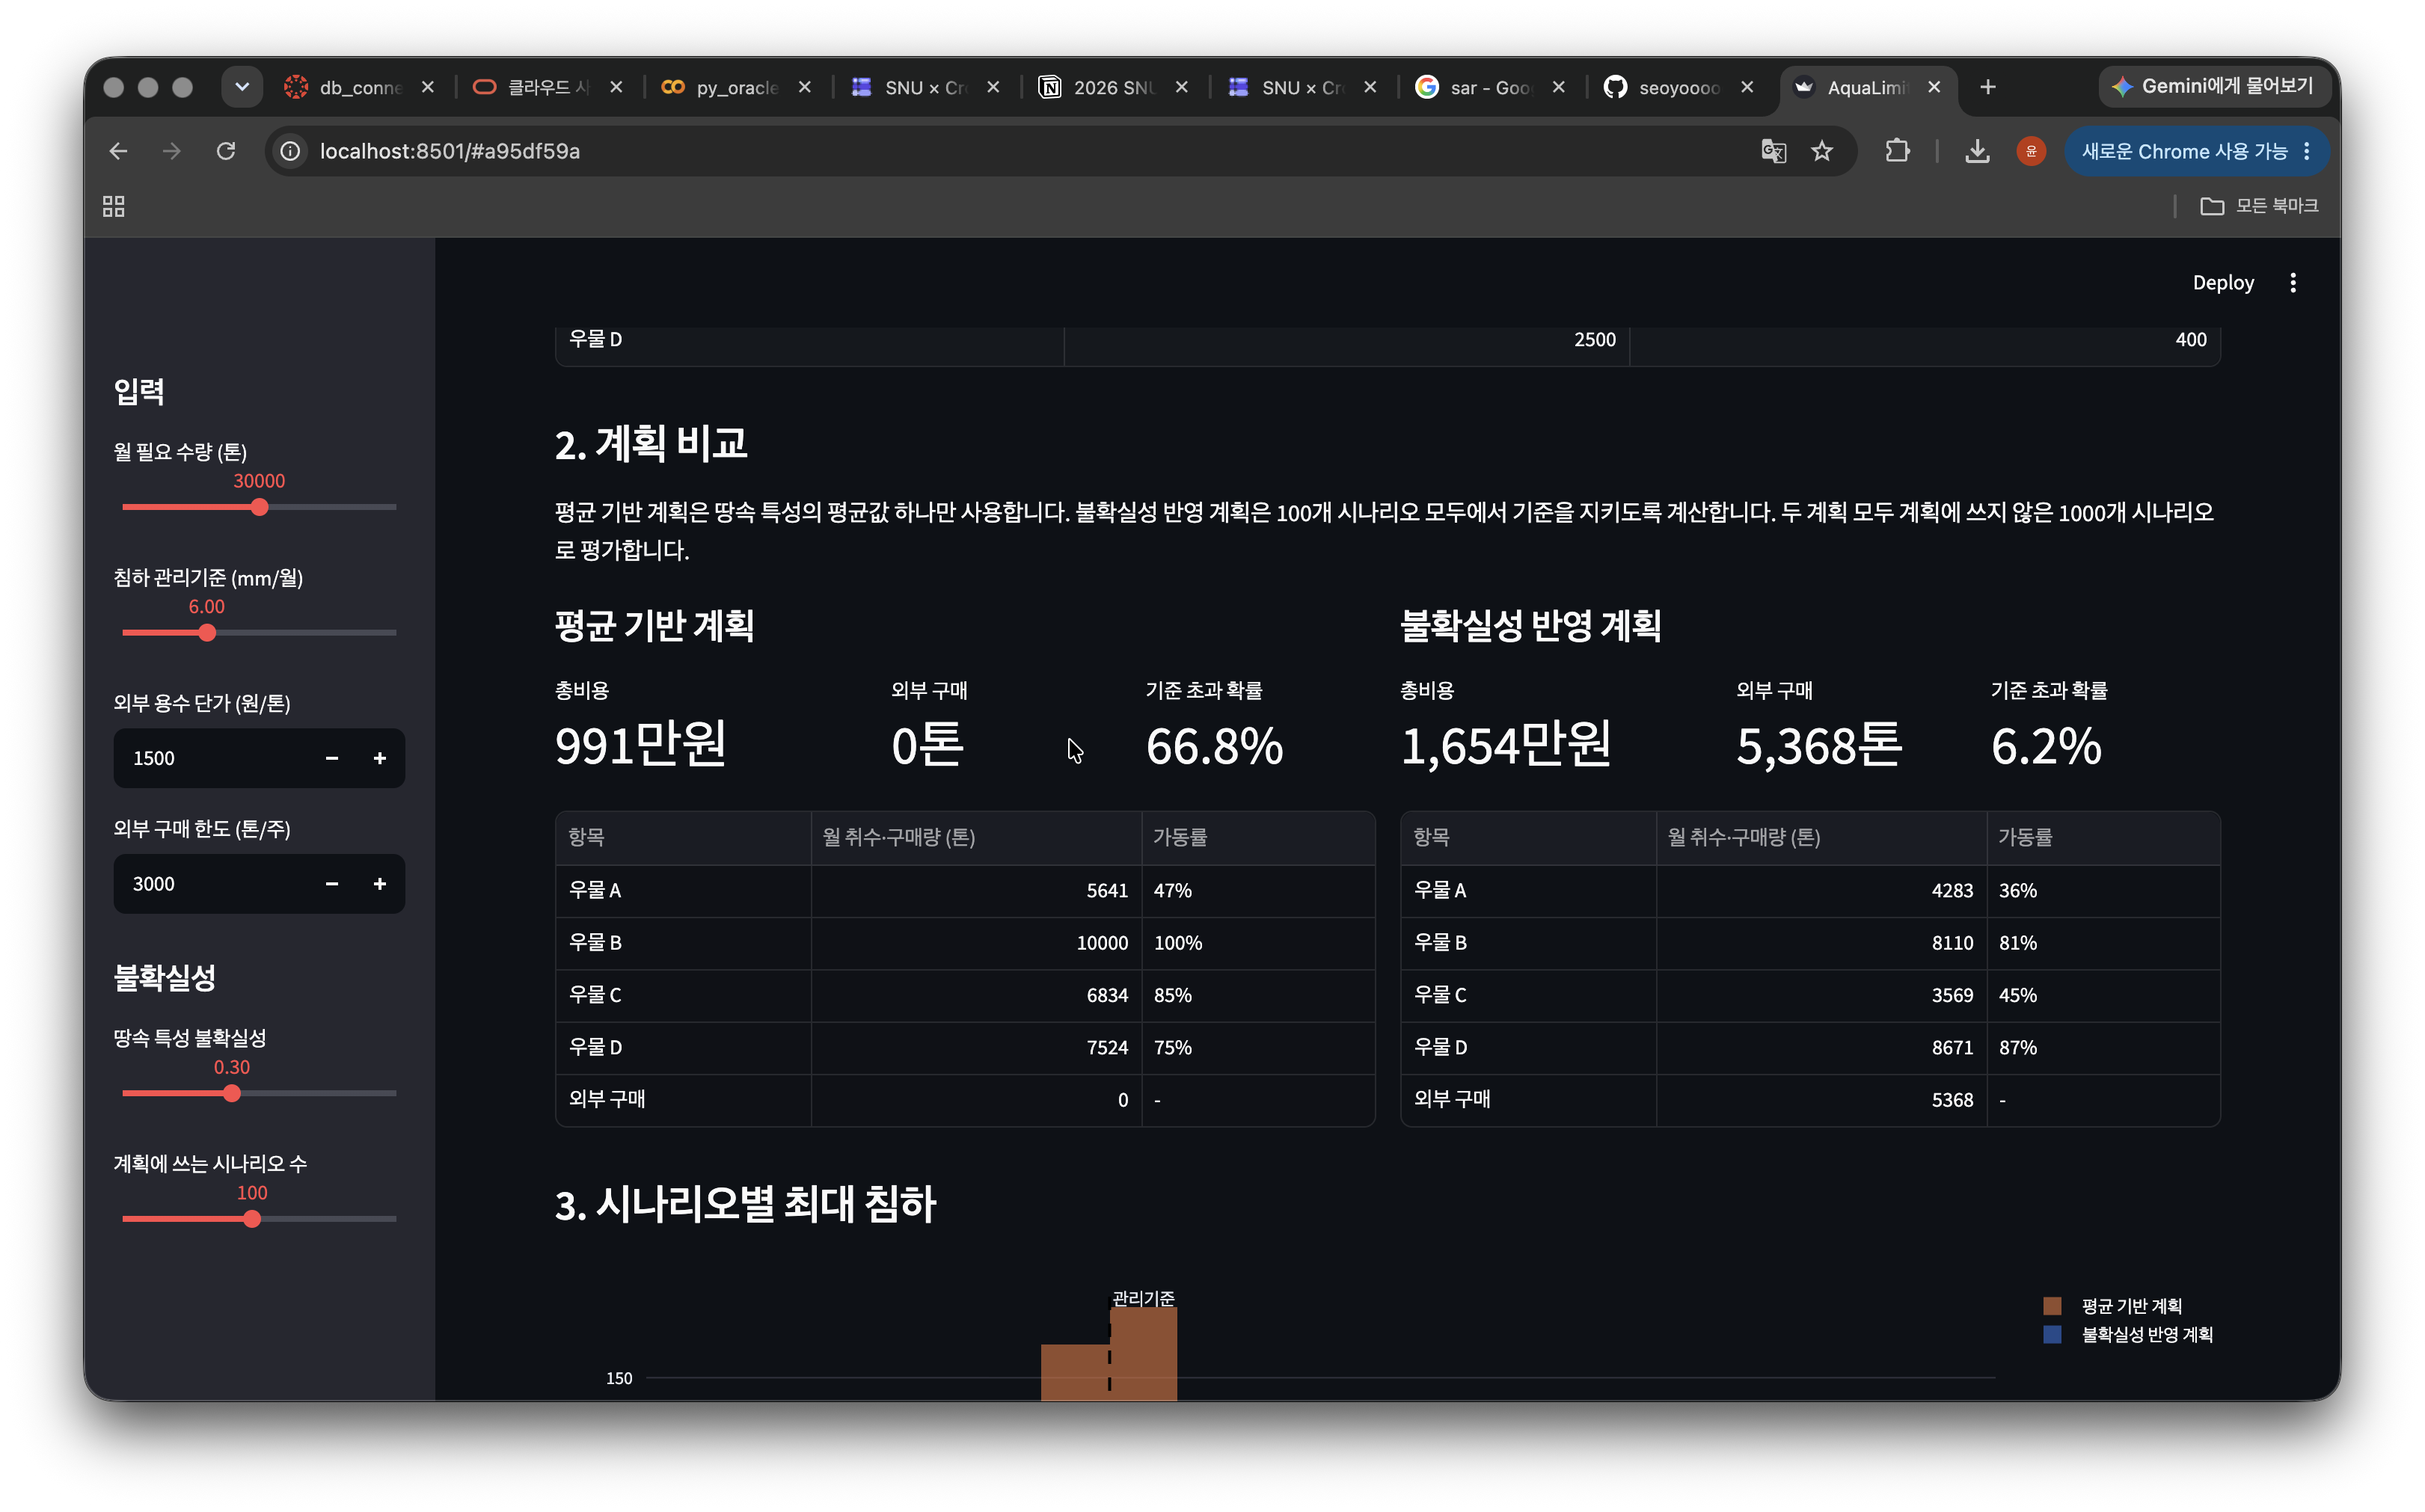
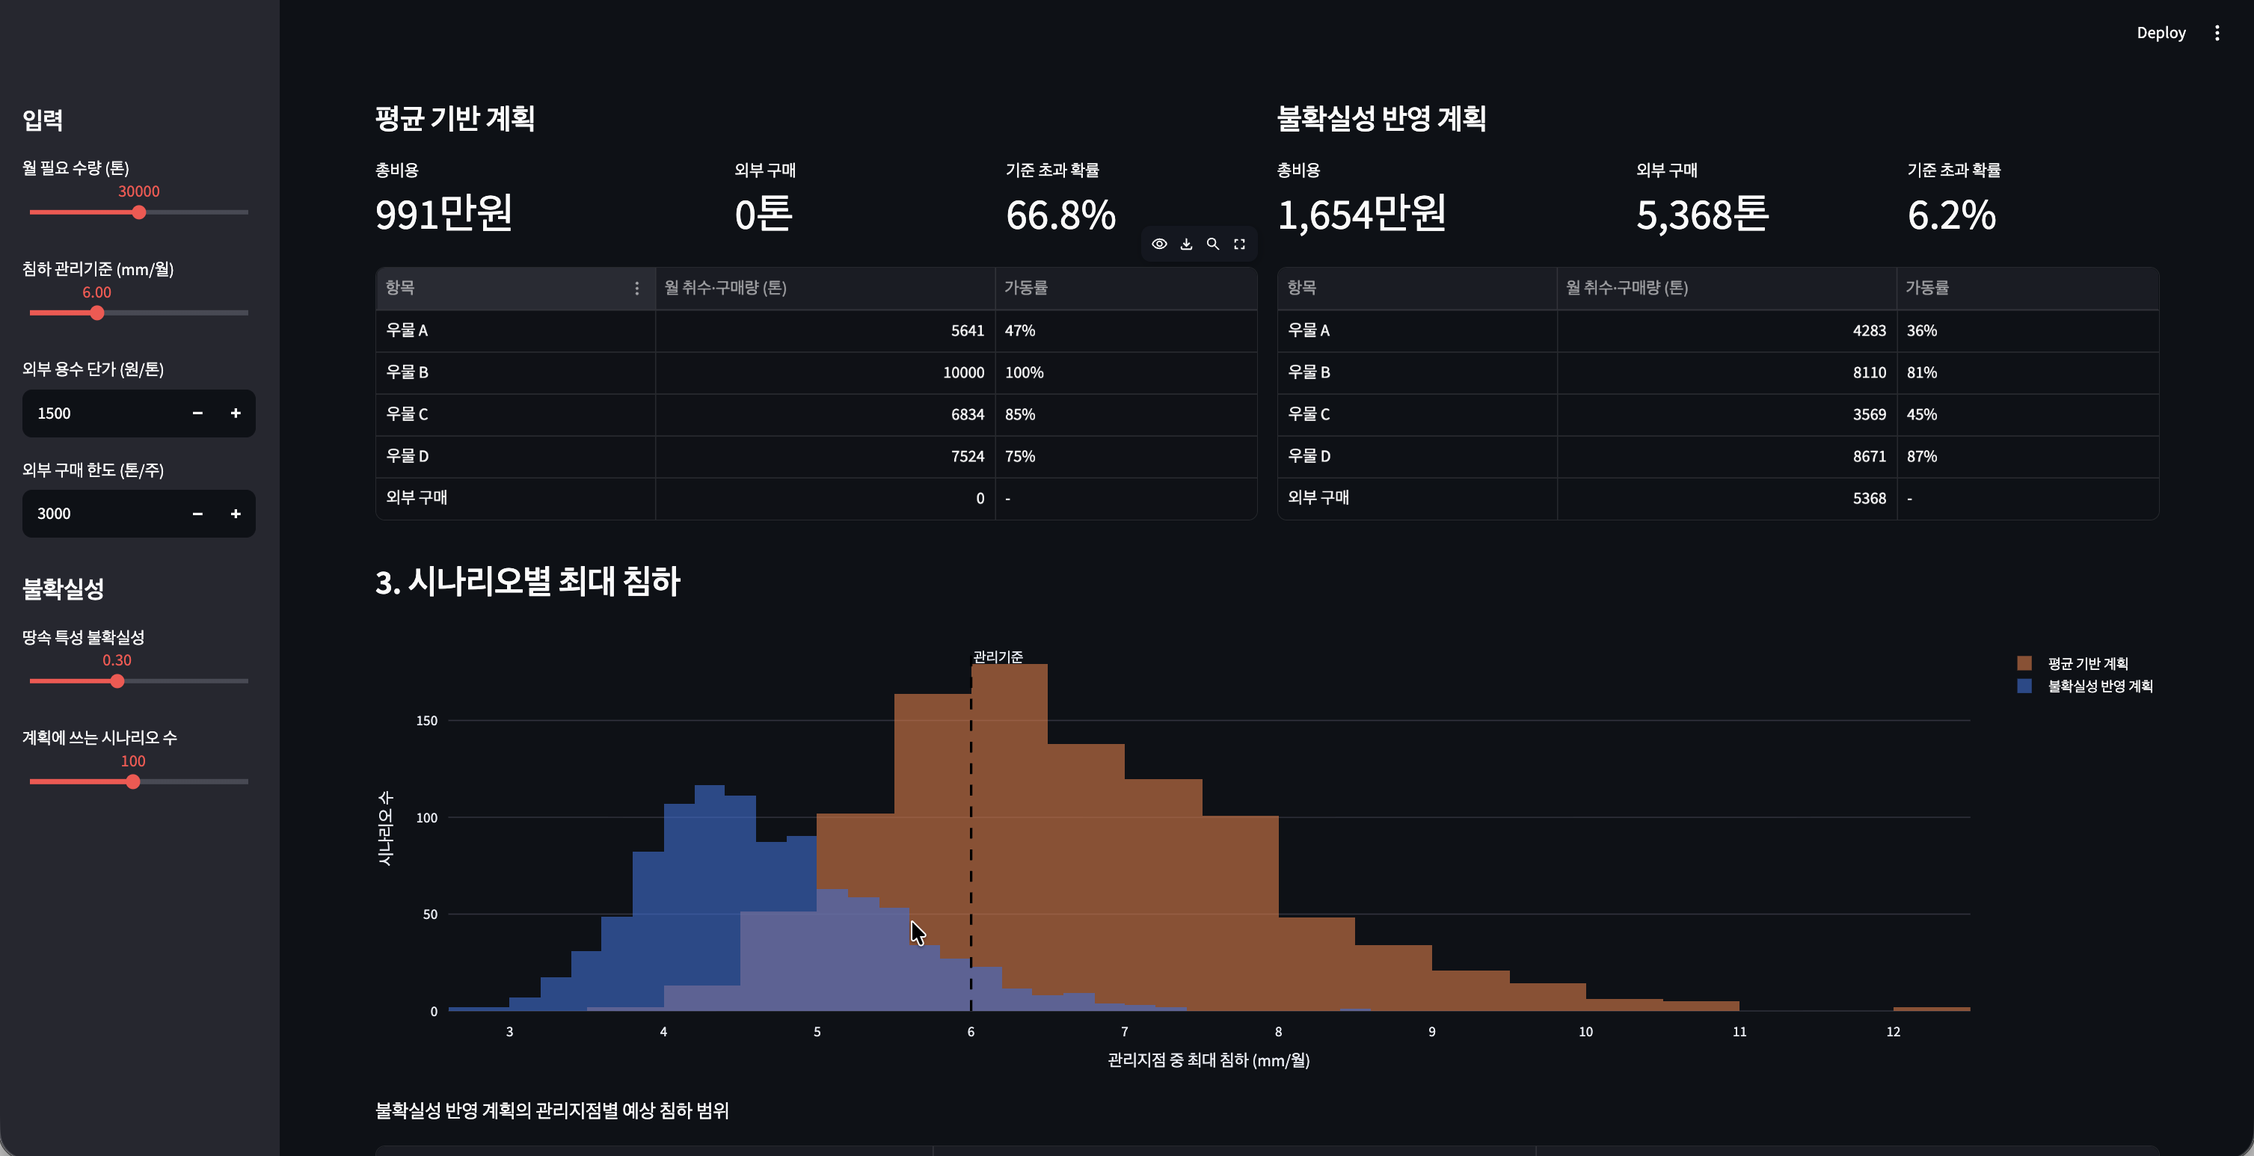
docs: 발표문서 수정

diff --git a/docs/progress/0930/README.md b/docs/progress/0930/README.md
@@ -31,7 +31,7 @@
 
 ## 4. 사용 예시
 
-입력: “다음 달 물 10만 톤 필요, 침하는 월 5mm 이하로 관리”
+입력: “다음 달 물 3만 톤 필요, 침하는 월 6mm 이하로 관리”
 
 출력 예시:
 
@@ -111,13 +111,20 @@
 - 침하 기준을 2mm로 강화하면 두 계획 모두 “추가 용수 확보 없이는 수요를 충족할 수 없습니다”를 표시한다.
 - “억지로 그럴듯한 답을 만들지 않는다.”
 
-### 화면 3 — 고려하는 가능성이 적으면 덜 안전하다
+### 화면 3·4 — 땅속을 잘 알수록 같은 안전을 더 싸게 얻는다
 
-![시나리오 20개 화면](images/demo-3-few-scenarios.png)
+| 위성 없이 땅속을 잘 모를 때 (불확실성 0.5) | 위성으로 땅속을 보정했을 때 (불확실성 0.2) |
+|---|---|
+| ![불확실성 0.5](images/demo-3-high-uncertainty.png) | ![불확실성 0.2](images/demo-4-low-uncertainty.png) |
 
-- 계획에 쓰는 가능성을 100개에서 20개로 줄이면 불확실성 반영 계획의 초과 확률이 6.2%에서 22.6%로 오른다.
-- “땅속 상태를 얼마나 잘 파악하느냐가 안전을 좌우한다. 그래서 위성으로 땅속 상태를 추정하는 단계가 필요하다.”
+| 땅속 불확실성 | 불확실성 반영 계획 비용 | 기준 초과 확률 |
+|---|---|---|
+| 0.5 (위성 없음 가정) | 2,360만원 | 5.1% |
+| 0.2 (위성 보정 가정) | 1,288만원 | 6.4% |
 
+- 위험은 비슷하게 유지하면서 비용이 약 1,070만원(45%) 줄어든다.
+- “위성으로 땅속 상태를 더 정확히 알면, 같은 안전을 훨씬 적은 비용으로 확보할 수 있다. 이것이 위성을 쓰는 이유다.”
+- ※ 0.5와 0.2는 위성 자료 유무를 가정한 값이다. 실제 감소 폭은 다음 단계에서 위성 자료로 확인한다.
 
 ## 8. 다음 주 계획
 
